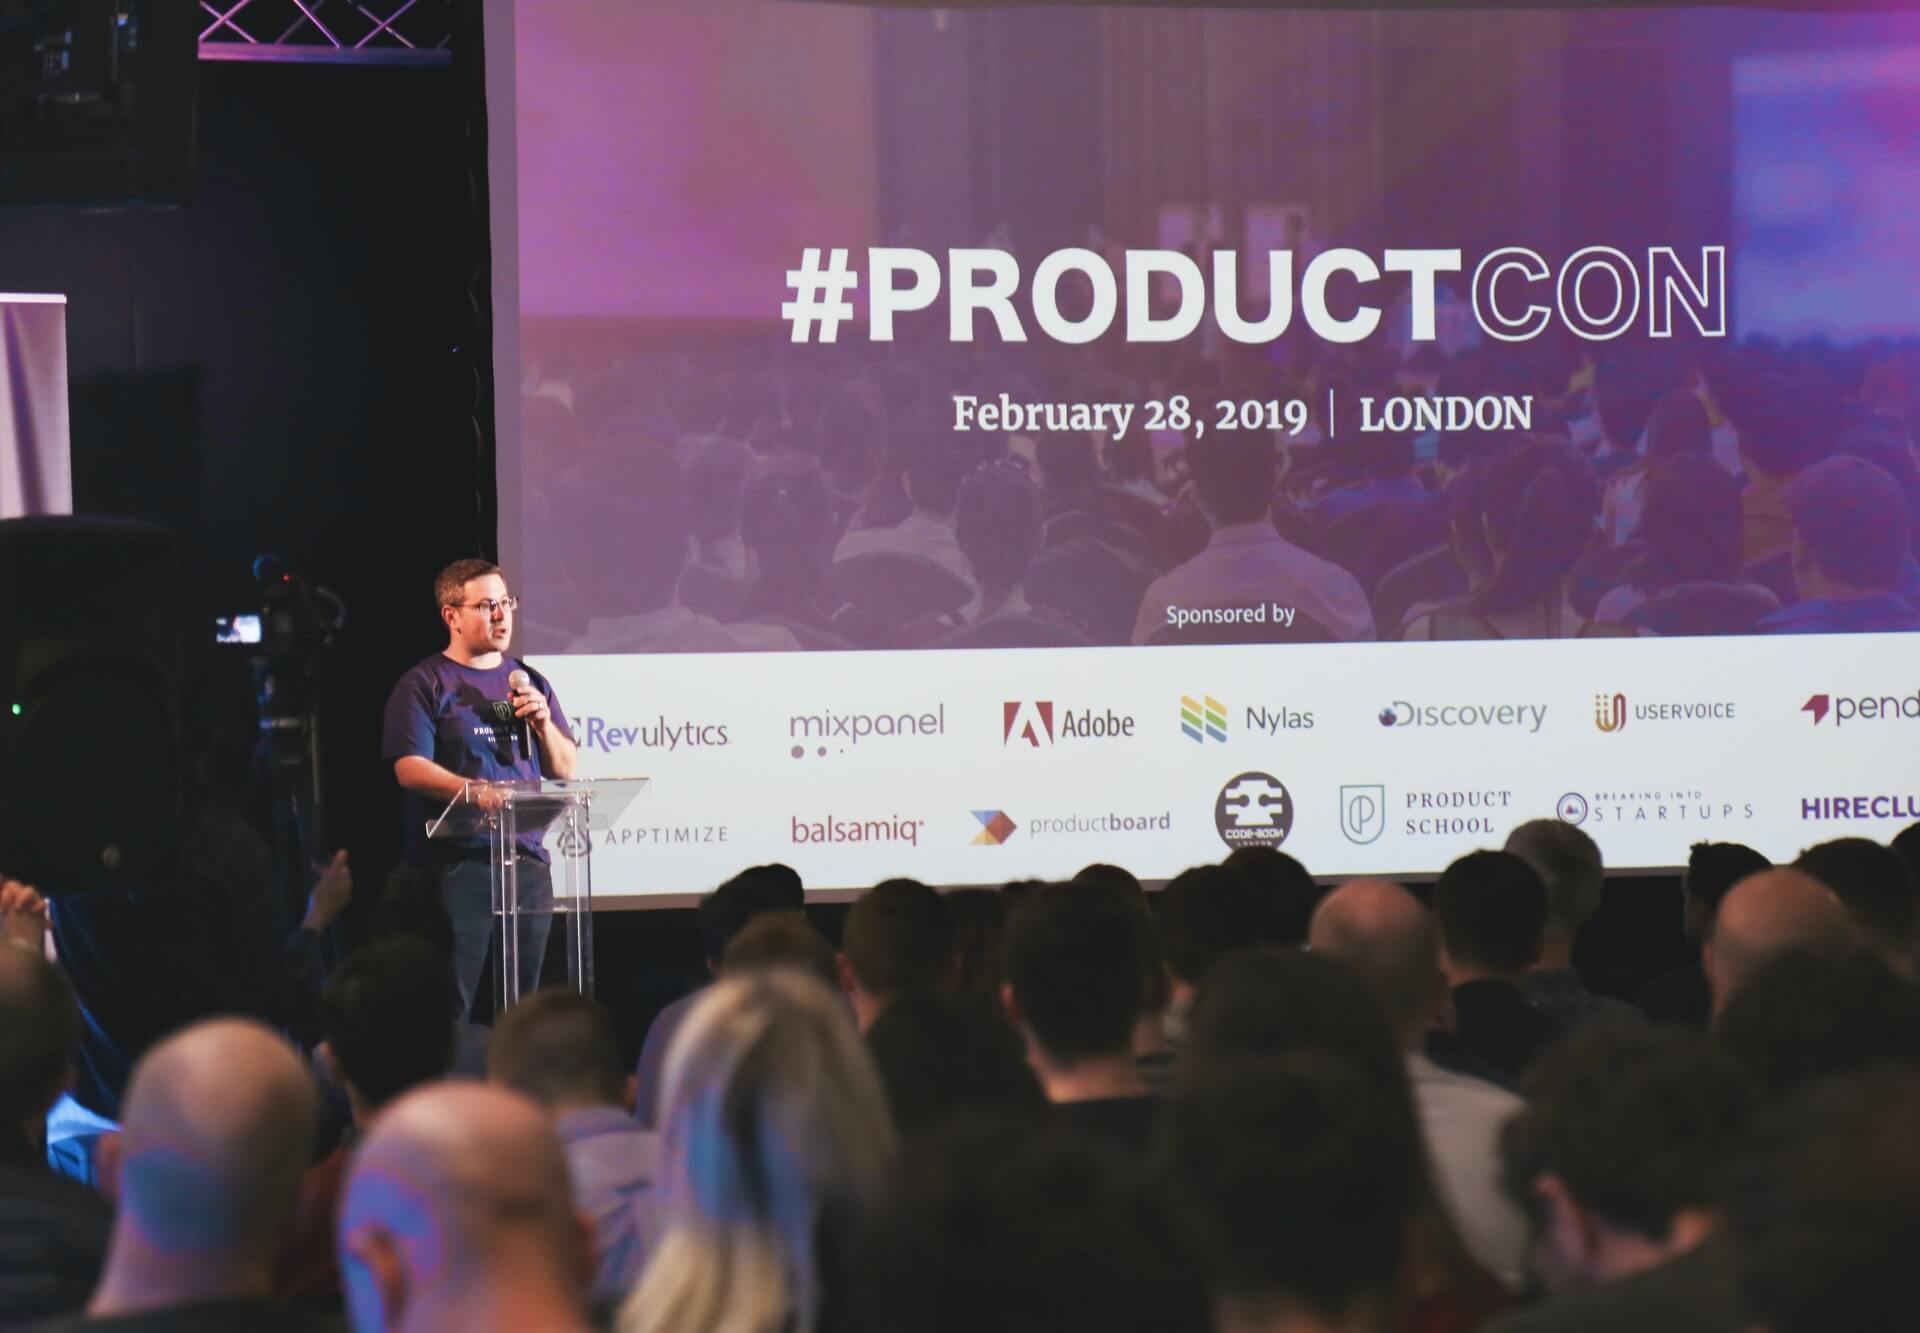
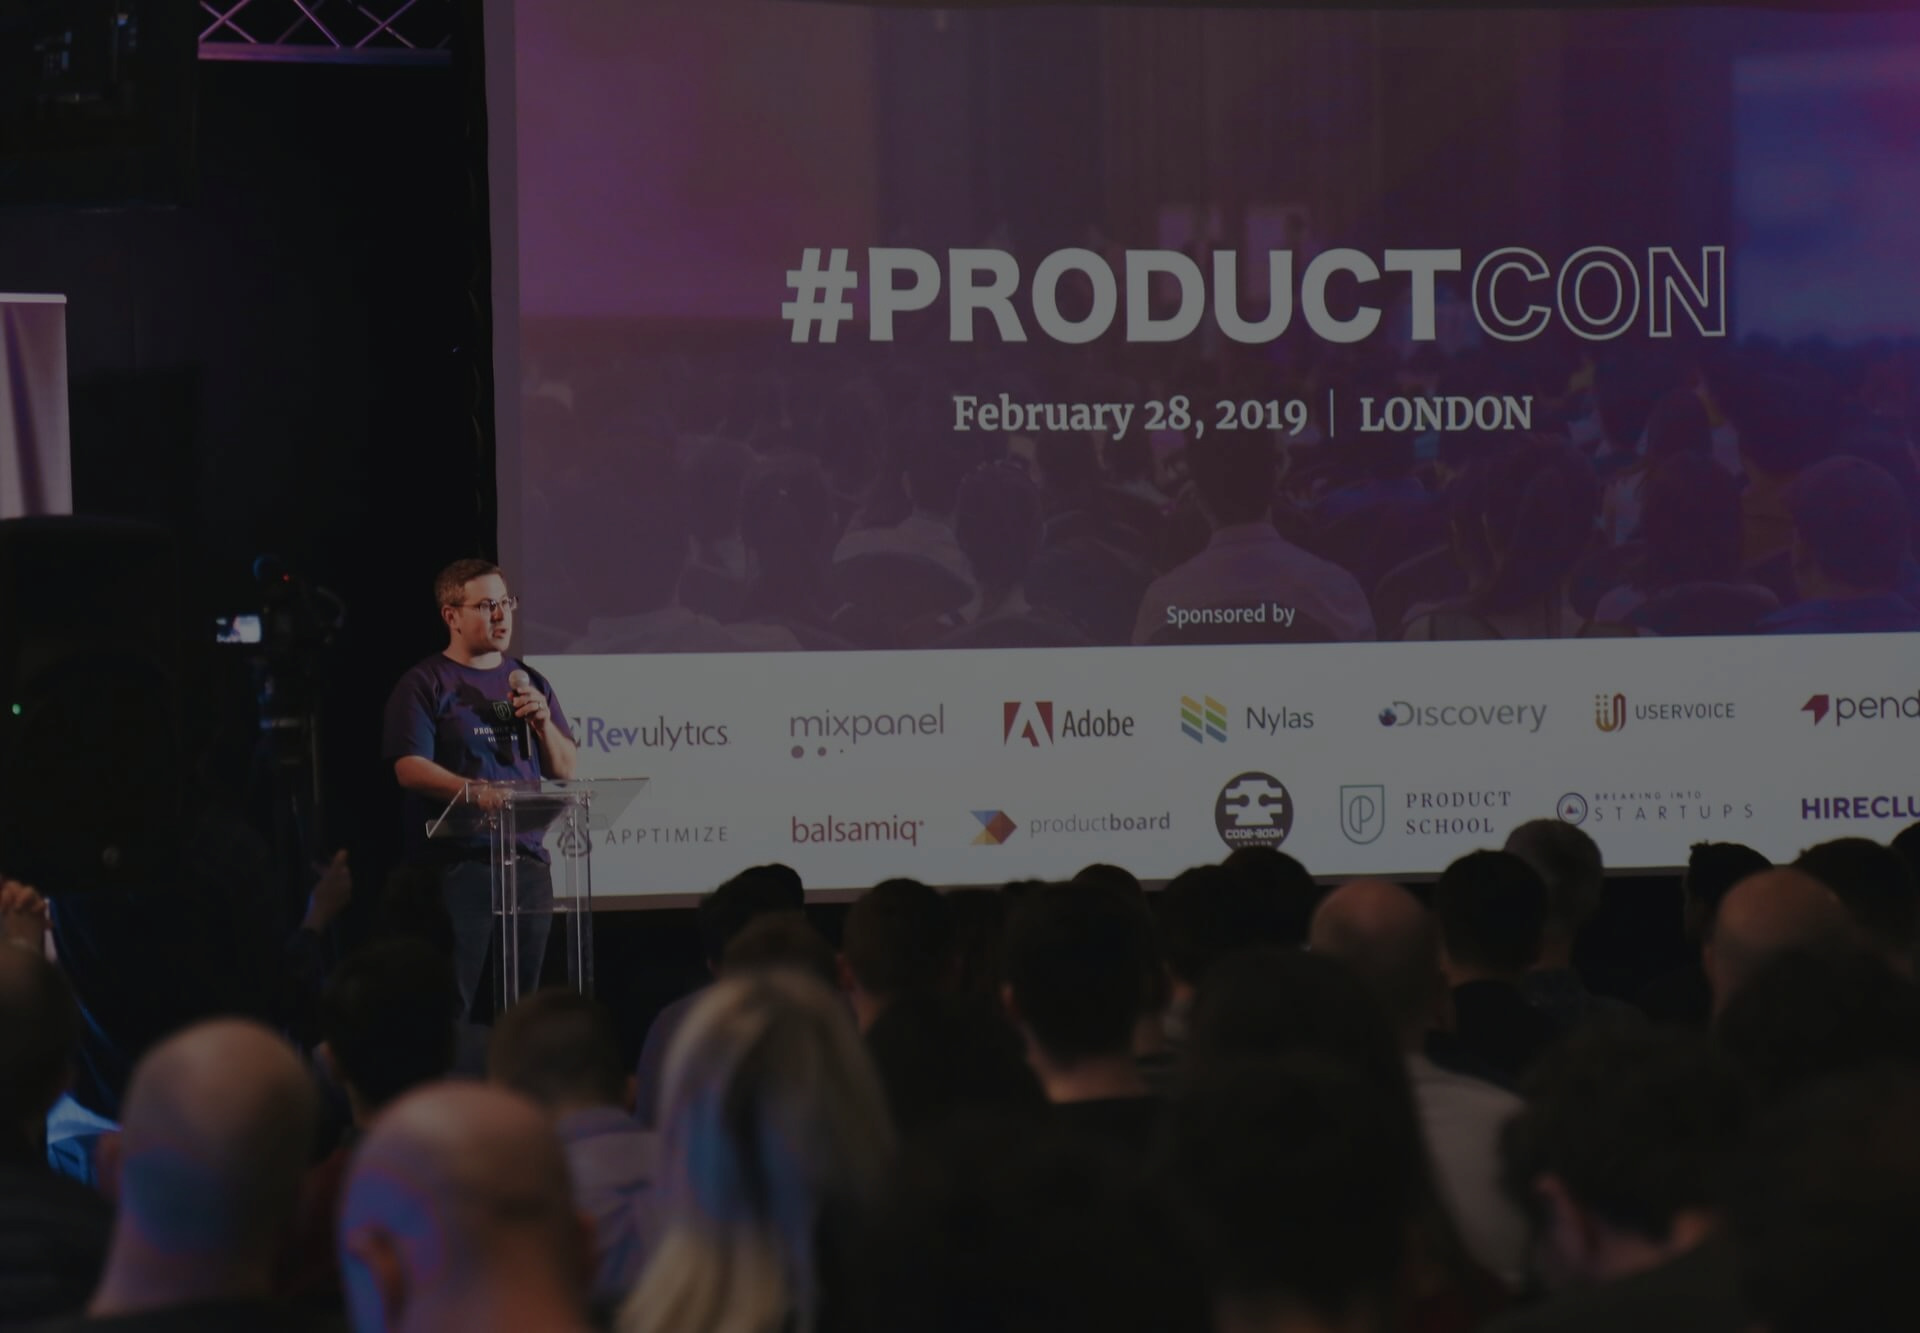
slider image changes, overlay & height fix, content write

diff --git a/index.html b/index.html
@@ -50,35 +50,59 @@
                     <button type="button" data-bs-target="#carouselExampleCaptions" data-bs-slide-to="0" class="active" aria-current="true" aria-label="Slide 1"></button>
                     <button type="button" data-bs-target="#carouselExampleCaptions" data-bs-slide-to="1" aria-label="Slide 2"></button>
                     <button type="button" data-bs-target="#carouselExampleCaptions" data-bs-slide-to="2" aria-label="Slide 3"></button>
+                    <button type="button" data-bs-target="#carouselExampleCaptions" data-bs-slide-to="3" aria-label="Slide 4"></button>
                 </div>
-                <div class="carousel-inner">
+                <div class="carousel-inner hcc-overlay">
                     <div class="carousel-item active">
                         <img src="./images/slider/wedding.jpg" class="d-block w-100 hcc-img-cover" height="600" alt="...">
-                        <div class="carousel-caption d-none d-md-block">
-                            <h5>First slide label</h5>
-                            <p>Some representative placeholder content for the first slide.</p>
-                            <button type="submit">Book Now</button>
+                        <div class="carousel-caption d-none d-md-block p-5">
+                            <div class="w-50 mx-auto">
+                                <h1 class="display-4 hcc-f-600">The perfect venue for your wedding</h1>
+                                <p class="hcc-f-300 text-light">We are sure you’ve been searching tirelessly for just the right place for wedding. One that matches your style, gets your vision and you can entrust with your Ultimate Wedding Weekend.
+                                </p>
+                                <button type="submit" class="py-2 px-5 rounded-3 border-0 bg-white fw-bold hcc-text-color">Book
+                                    Now</button>
+                            </div>
                         </div>
+
+
                     </div>
                     <div class="carousel-item">
                         <img src="./images/slider/business-fair.jpg" class="d-block w-100 hcc-img-cover" height="600" alt="...">
-                        <div class="carousel-caption d-none d-md-block">
-                            <h5>Second slide label</h5>
-                            <p>Some representative placeholder content for the second slide.</p>
+                        <div class="carousel-caption d-none d-md-block p-5">
+                            <div class="w-50 mx-auto">
+                                <h1 class="display-4 hcc-f-600">Are looking for a place for business fair?</h1>
+                                <p class="hcc-f-300 text-light">Enjoy the opportunity to openly network with attendees, whilst exploring the exhibition packed with a variety of local exhibitors showcasing their products and services.
+                                </p>
+                                <button type="submit" class="py-2 px-5 rounded-3 border-0 bg-white fw-bold hcc-text-color">Book
+                                    Now</button>
+                            </div>
                         </div>
                     </div>
                     <div class="carousel-item">
                         <img src="./images/slider/conference.jpg" class="d-block w-100 hcc-img-cover" height="600" alt="...">
-                        <div class="carousel-caption d-none d-md-block">
-                            <h5>Third slide label</h5>
-                            <p>Some representative placeholder content for the third slide.</p>
+                        <div class="carousel-caption d-none d-md-block p-5">
+                            <div class="w-50 mx-auto">
+                                <h1 class="display-4 hcc-f-600">If you are looking for conference rentals near you, Just call us.</h1>
+                                <p class="hcc-f-300 text-light">The conference venues available for rent range from small board rooms to large conference centers. The variety includes meeting and conference spaces for rent that are perfect for small groups, large groups, corporate groups,
+                                    social groups and everything in between.
+                                </p>
+                                <button type="submit" class="py-2 px-5 rounded-3 border-0 bg-white fw-bold hcc-text-color">Book
+                                    Now</button>
+                            </div>
                         </div>
                     </div>
                     <div class="carousel-item">
                         <img src="./images/slider/concert.jpg" class="d-block w-100 hcc-img-cover" height="600" alt="...">
-                        <div class="carousel-caption d-none d-md-block">
-                            <h5>Third slide label</h5>
-                            <p>Some representative placeholder content for the third slide.</p>
+                        <div class="carousel-caption d-none d-md-block p-5">
+                            <div class="w-50 mx-auto">
+                                <h1 class="display-4 hcc-f-600">You can find here best concert space for any kind of concert. </h1>
+                                <p class="hcc-f-300 text-light">Concert is certainly one of the most awaited events by the fans as they come to see the singer or band they follow. Are you looking for the best concert venue in Malaysia? Browse through the list of venues Venuerific has
+                                    to offer for your upcoming concert.
+                                </p>
+                                <button type="submit" class="py-2 px-5 rounded-3 border-0 bg-white fw-bold hcc-text-color">Book
+                                    Now</button>
+                            </div>
                         </div>
                     </div>
                 </div>

diff --git a/css/style.css b/css/style.css
@@ -1,6 +1,6 @@
 /* Google Font  */
 
-@import url('https://fonts.googleapis.com/css2?family=Poppins:wght@400;500;600;700&display=swap');
+@import url('https://fonts.googleapis.com/css2?family=Poppins:wght@300;400;500;600;700&display=swap');
 body {
     font-family: 'Poppins', sans-serif;
     font-weight: 400;
@@ -10,6 +10,14 @@ body {
     object-fit: cover;
 }
 
-.hcc-font-600 {
+.hcc-text-color {
+    color: #6047EC;
+}
+
+.hcc-f-600 {
     font-weight: 600;
+}
+
+.hcc-f-300 {
+    font-weight: 300;
 }
